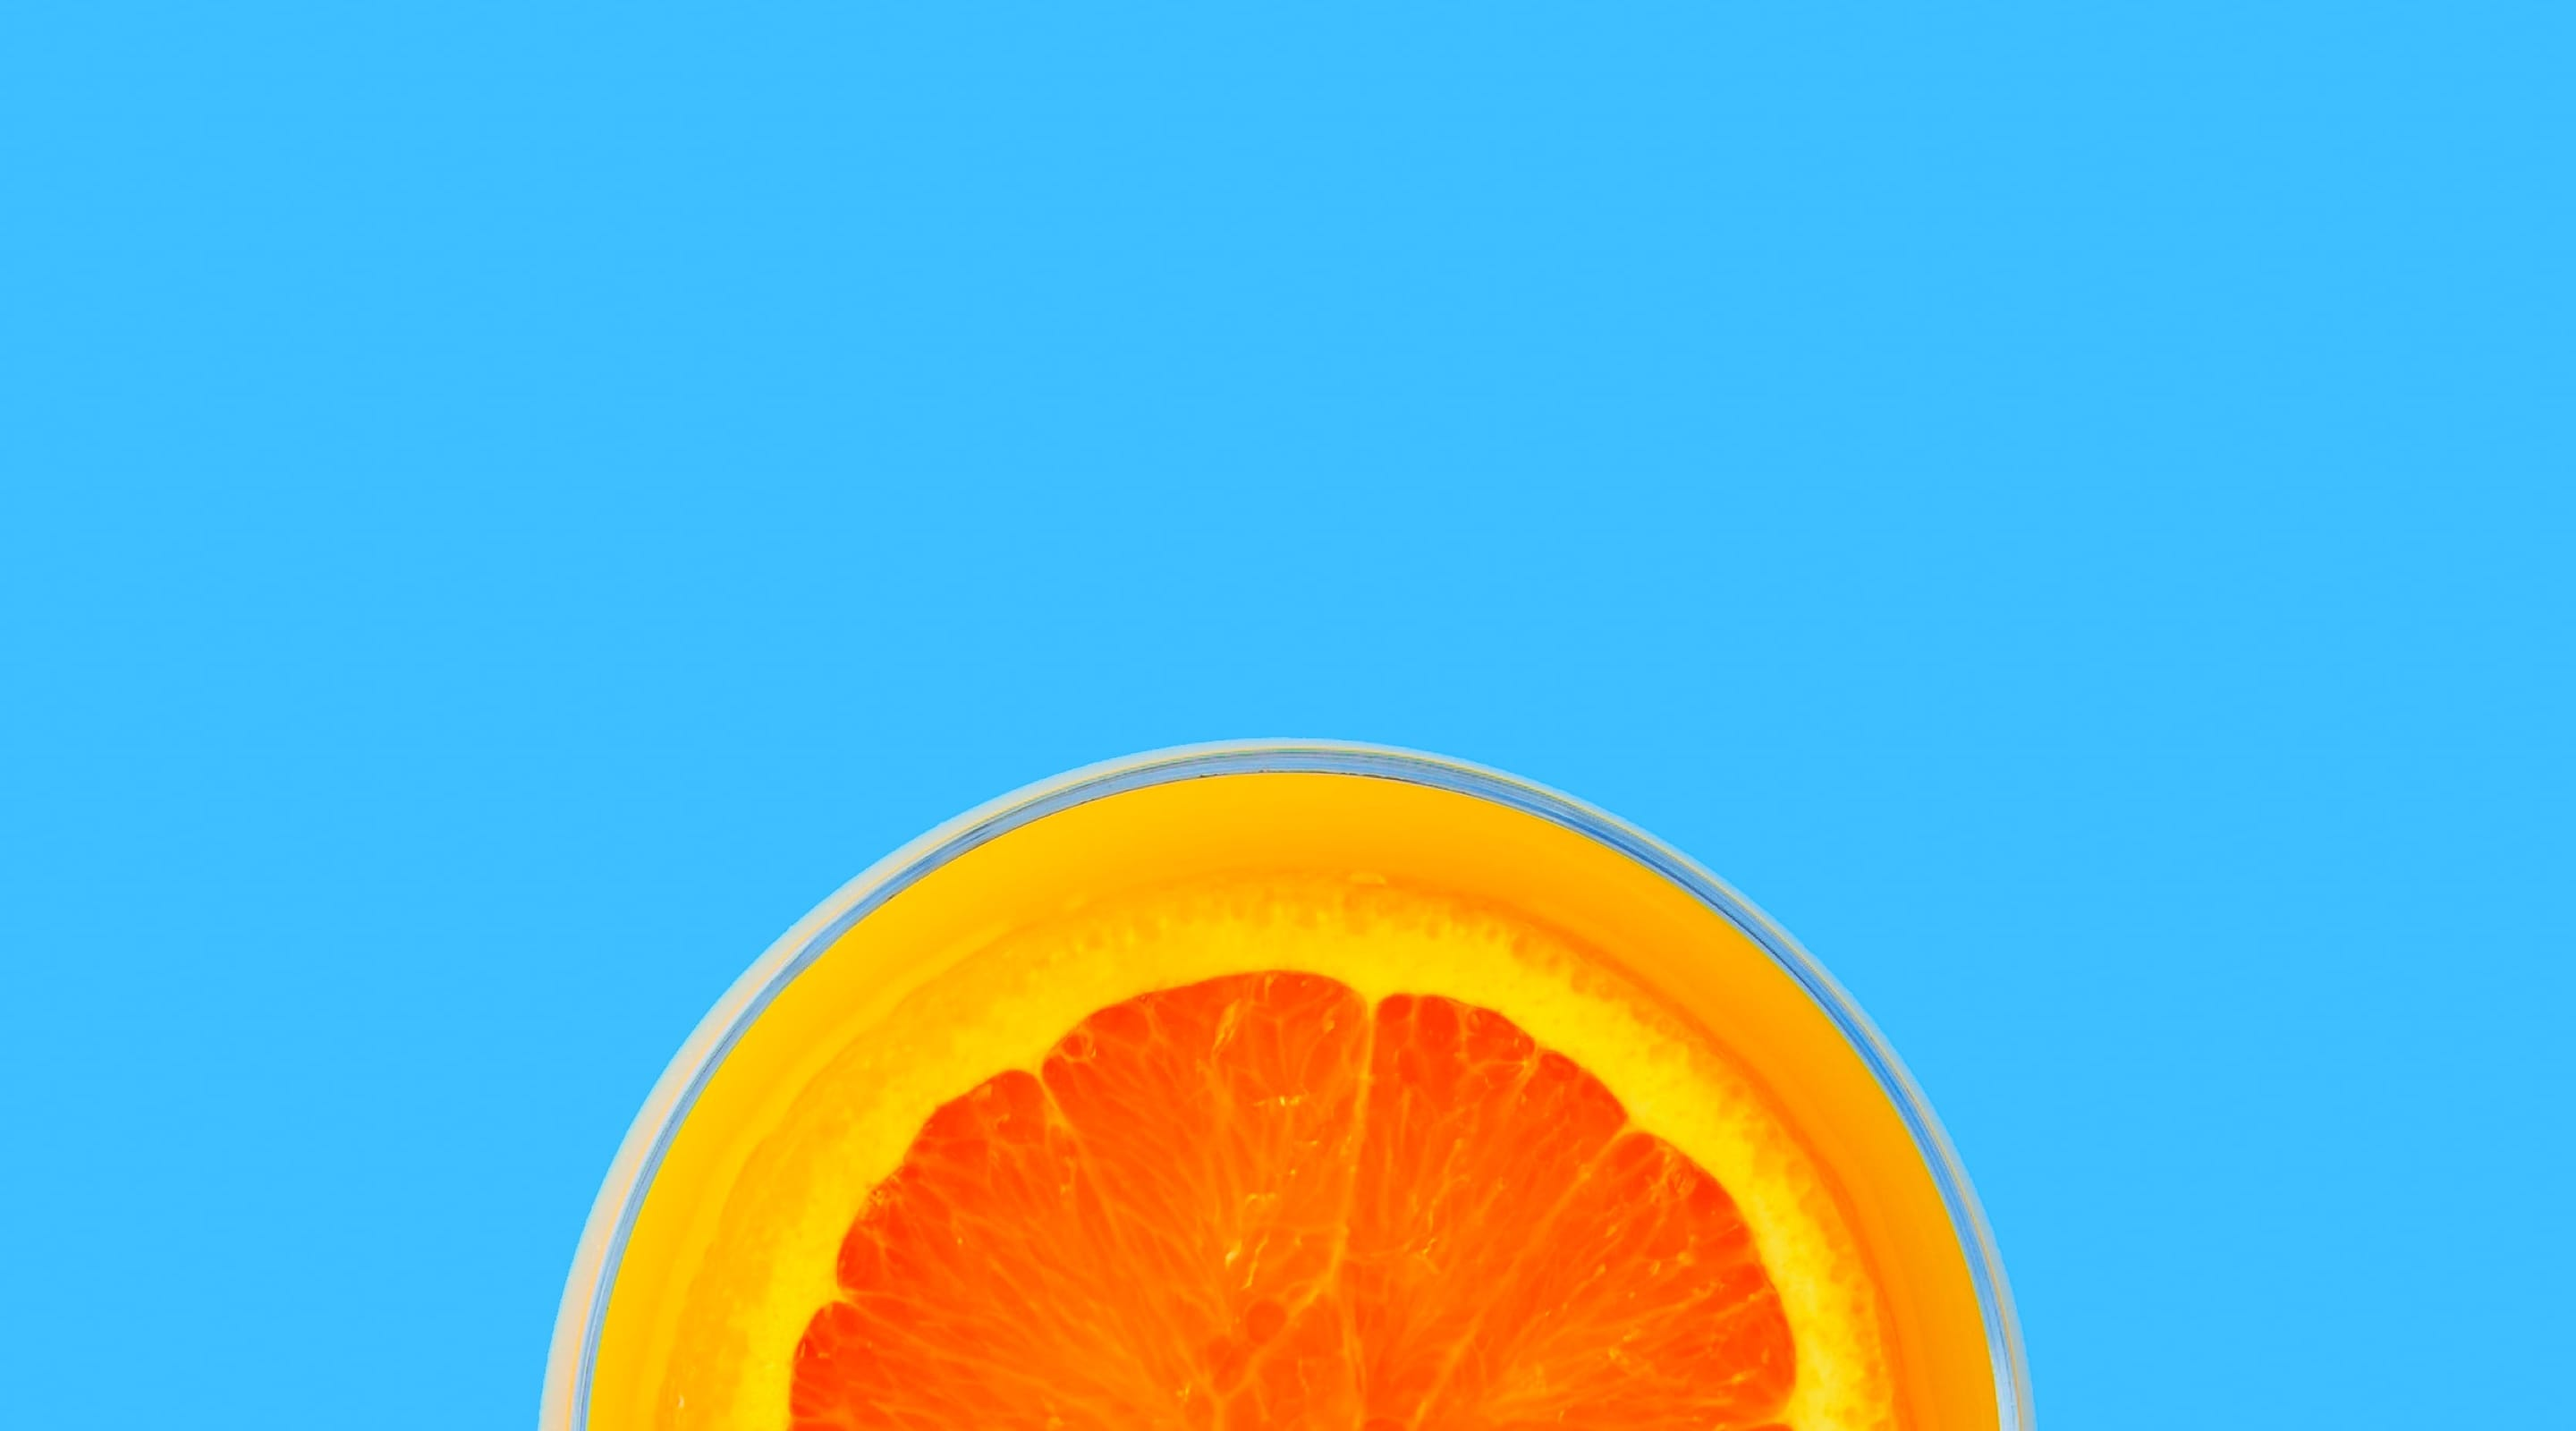
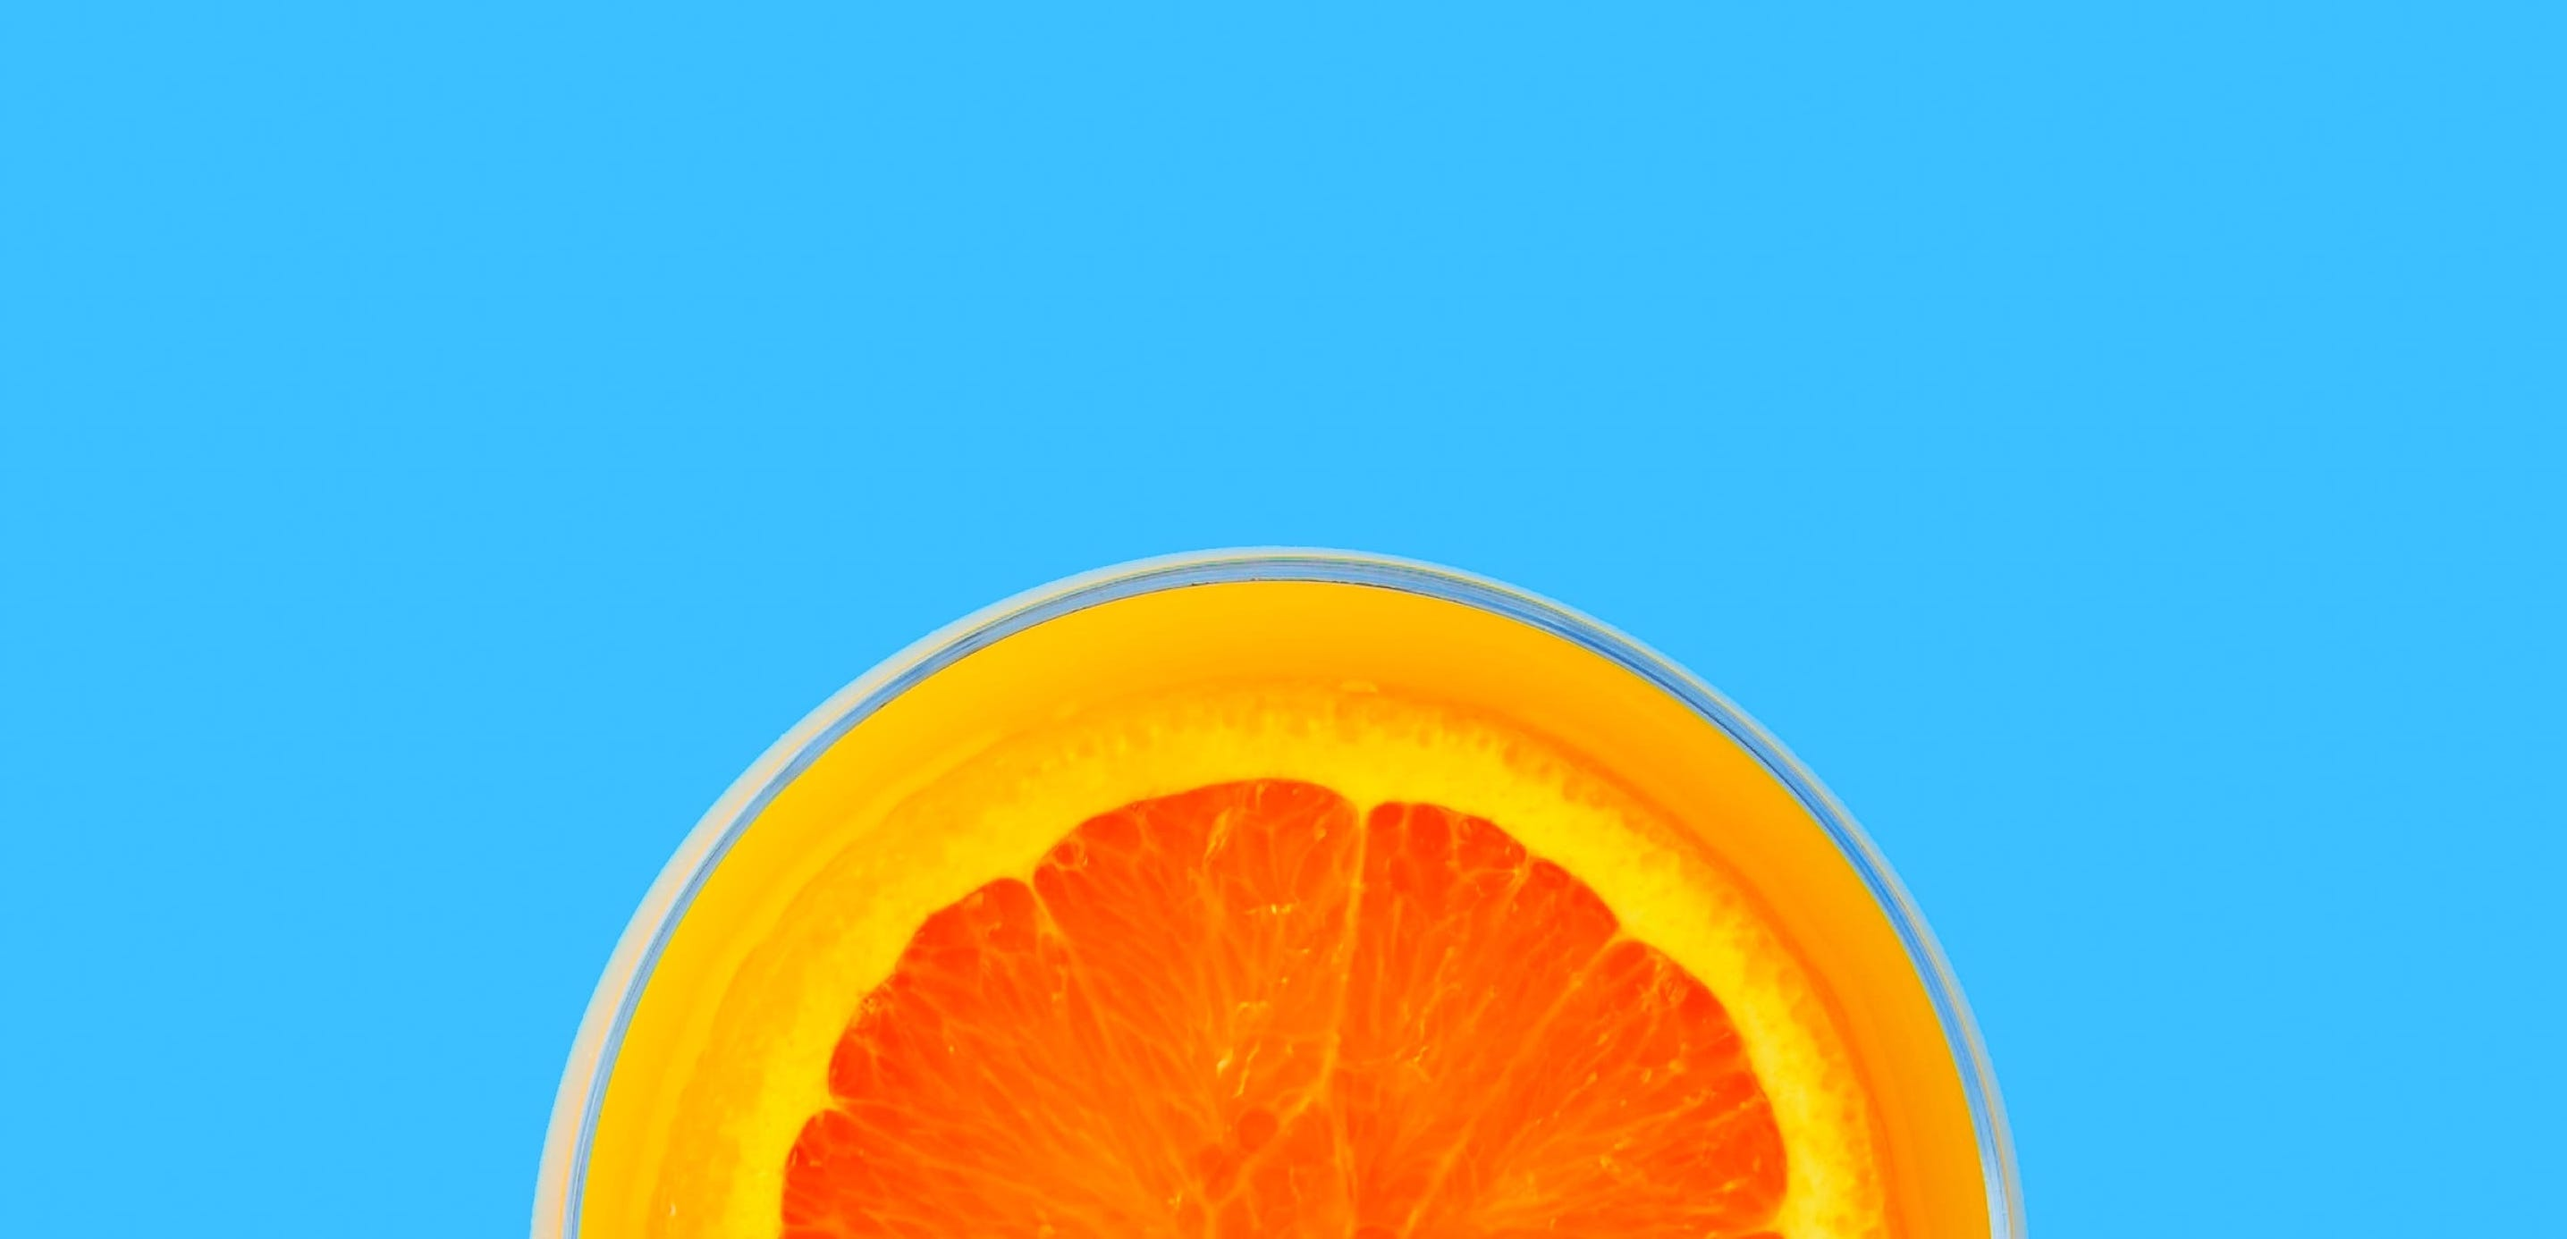
updated sunnyside project

diff --git a/index.html b/index.html
@@ -15,47 +15,56 @@
         <!-- NAVBAR AND HERO SEECTION -->
         <section id="hero">
             <nav class="navbar">
-                <div class="navbarlogo">
+                <div class="navbar-logo">
                     <img src="images/logo.svg" alt="Sunnyside logo" class="nav-logo">
                 </div>
-
+                    
                 <div class="nav-links">
                     <ul class="navbar-links">
                         <li class="nav_links"><a href="#">About</a></li>
                         <li class="nav_links"><a href="#">Services</a></li>
                         <li class="nav_links"><a href="#">Projects</a></li>
-                        <li class="nav_links"><a href="#">Contact</a></li>                   
+                        <button><li class="cta"><a href="#">CONTACT</a></li></button>
                     </ul>
                 </div>
             </nav>
 
             <div class="hero-body">
                 <h1 class="hero-text">We are creatives</h1>
+                <img class="hero-arrow" src="images/icon-arrow-down.svg" alt="" class="hero-img">
             </div>
 
-            <img src="images/icon-arrow-down.svg" alt="" class="hero-img">
+            
         </section>
         <!-- FEAUTRES SECTION  -->
         <section id="feautres">
             <div class="feautres-1">
-                <h1 class="feautres-text1">  Transform your brand</h1>
-                <p class="feautres-text-1">  We are a full-service creative agency specializing in helping brands grow fast. 
-                    Engage your clients through compelling visuals that do most of the marketing for you.
-                
-                </p>
+                <div class="feautres-1-text">
+                    <h1 class="feautres-text1">  Transform your brand</h1>
+                    <p class="feautres-text-1">  We are a full-service creative agency specializing in helping brands grow fast. 
+                        Engage your clients through compelling visuals that do most of the marketing for you.
+                    
+                    </p>
                     <a href="#" class="feautres-text-link">Learn more</a>
+                </div>
 
+                <div class="feautres-1-images">
                     <img src="images/mobile/image-transform.jpg" alt="Transform" class="feautres-1-img-mobile">
                     <img src="images/desktop/image-transform.jpg" alt="Transform" class="feautres-1-desktop">
+                </div>
             </div>
 
             <div class="feautres-2">
-                <h1 class="feautres-text2">Stand out to the right audience</h1>
-                <p class="feautres-text-2">  Using a collaborative formula of designers, researchers, photographers, videographers, and copywriters, we’ll build and extend your brand in digital places. </p>
-                <a href="#" class="feautres-2-link">Learn more</a>
+                <div class="feautres-2-text">
+                    <h1 class="feautres-text2">Stand out to the right audience</h1>
+                    <p class="feautres-text-2">  Using a collaborative formula of designers, researchers, photographers, videographers, and copywriters, we’ll build and extend your brand in digital places. </p>
+                    <a href="#" class="feautres-2-link">Learn more</a>
+                </div>
 
-                <img src="images/desktop/image-stand-out.jpg" alt="image-stand-out" class="feautres-2-mobile-desktop">
-                <img src="images/mobile/image-stand-out.jpg" alt="image-stand-out" class="feautres-2-mobile-img">
+               <div class="feautres-2-images">
+                 <img src="images/desktop/image-stand-out.jpg" alt="image-stand-out" class="feautres-2-mobile-desktop">
+                 <img src="images/mobile/image-stand-out.jpg" alt="image-stand-out" class="feautres-2-mobile-img">
+               </div>
             </div>
         </section>
 

diff --git a/style.css b/style.css
@@ -12,7 +12,7 @@
 
 /* REUSABLE CLASSES */
 
-p{
+p , a{
     font-family: 'Barlow', sans-serif;
 }
 
@@ -20,4 +20,143 @@ h1,h2,h3,h4,h5,h6{
     font-family: 'Fraunces', serif;
 }
 
+:root{
+ --Softred--: hsl(7, 99%, 70%);
+ --Yellow--: hsl(51, 100%, 49%);
+ --Dark-desaturated-cyan-graphic-design-text--: hsl(167, 40%, 24%);
+ --Dark-blue-photography-text-: hsl(198, 62%, 26%);
+ --Dark-moderate-cyan-footer-: hsl(168, 34%, 41%);
+ --Very-dark-desaturated-blue: hsl(212, 27%, 19%);
+ --Very-dark-grayish-blue: hsl(213, 9%, 39%);
+ --Dark-grayish-blue: hsl(232, 10%, 55%);
+ --Grayish-blue--: hsl(210, 4%, 67%);
+ --White--: hsl(0, 0%, 100%);
+}
+
 /* HERO SECTION */
+
+#hero{
+ background-repeat: no-repeat;
+ background-size: cover;
+ background-image: url(images/desktop/image-header.jpg);
+ height: 500px;
+ width: auto;
+}
+
+.navbar{
+    margin-left: 2rem;
+    margin-right: 2rem;
+    display: flex;
+    flex-direction: row;
+    max-width: 1720px;
+    padding-top: 2rem;
+    padding-right: 2rem;
+}
+
+.nav-links{
+    margin-left: auto;
+}
+
+.navbar-links{
+    display: flex;
+    gap: 25px;
+}
+
+.navbar-links{
+    list-style: none;
+}
+
+.navbar-links > button{
+    width: 100px;
+    height: 30px;
+    border-radius: 50px;
+    border: none;
+    background-color: white;
+}
+
+.cta>a{
+    text-decoration: none;
+    color: black;
+    font-family: 'Fraunces', serif;;
+    text-align: center;
+}
+
+.nav_links > a{
+    text-decoration: none;
+    list-style: none;
+    color: white;
+    text-align: center;
+    align-items: center;
+    align-content: center;
+}
+
+.hero-body{
+    margin-top: 5rem;
+    text-align: center;
+}
+
+.hero-arrow{
+    padding-top: 40px;
+}
+
+.hero-text{
+    font-size: 50px;
+    color: var(--White--);
+}
+
+.feautres-1{
+    display: flex;
+    flex-direction: row;
+}
+
+.feautres-1-text{
+    flex: 50%;
+    display: flex;
+    flex-direction: column;
+    justify-content: center;
+    text-align: left;
+    padding-left: 50px;
+    padding-right: 50px;
+}
+
+.feautres-1-img-mobile{
+    display: none;
+}
+
+.feautres-1-images{
+   flex: 50%;
+}
+
+.feautres-1-desktop{
+    flex: 50%;
+}
+
+.feautres-text1{
+    margin-bottom: 1rem;
+    color: var(--Very-dark-desaturated-blue);
+}
+
+.feautres-text-1{
+    margin-bottom: 1rem;
+    color: var(--Grayish-blue--);
+}
+
+.feautres-text-link{
+    color: var(--Very-dark-desaturated-blue);
+    text-decoration: var(--Yellow--) underline solid 3px;
+    font-family: 'Fraunces', serif;
+}
+
+.feautres-2{
+    display: flex;
+    flex-direction: row-reverse;
+    margin-bottom: 3rem;
+}
+
+.feautres-2-mobile-img{
+    display: none;
+}
+
+.feautres-2-mobile-desktop{
+    width: 563px;
+}
